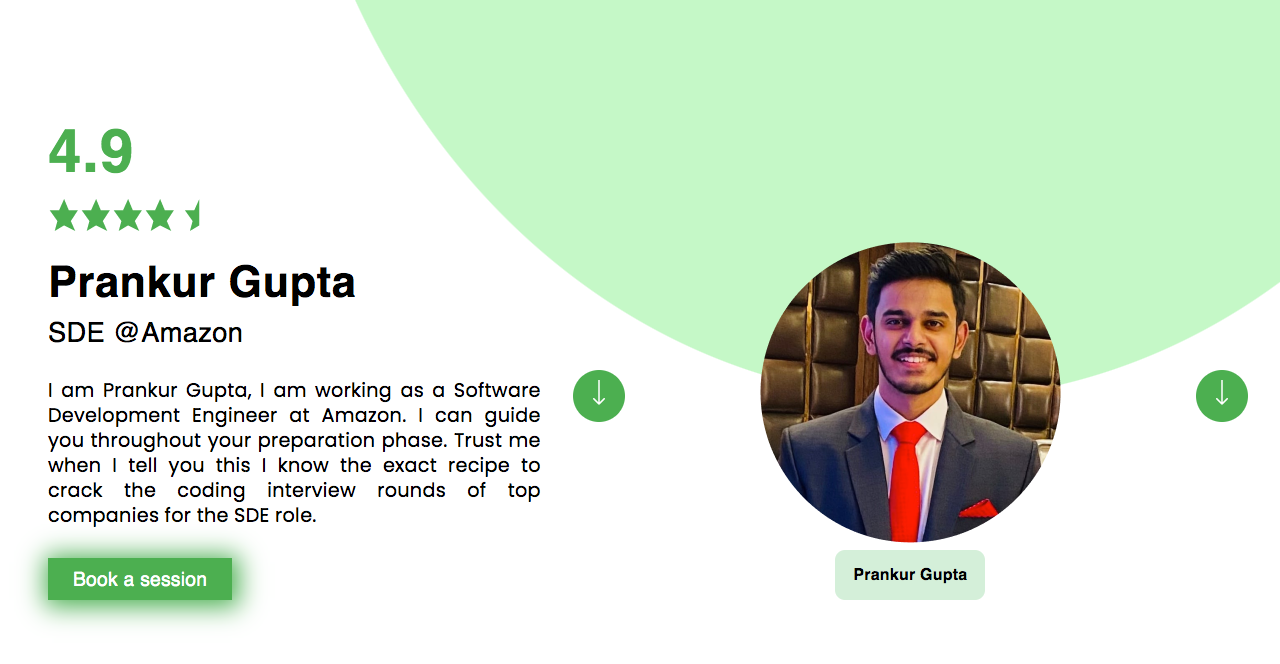
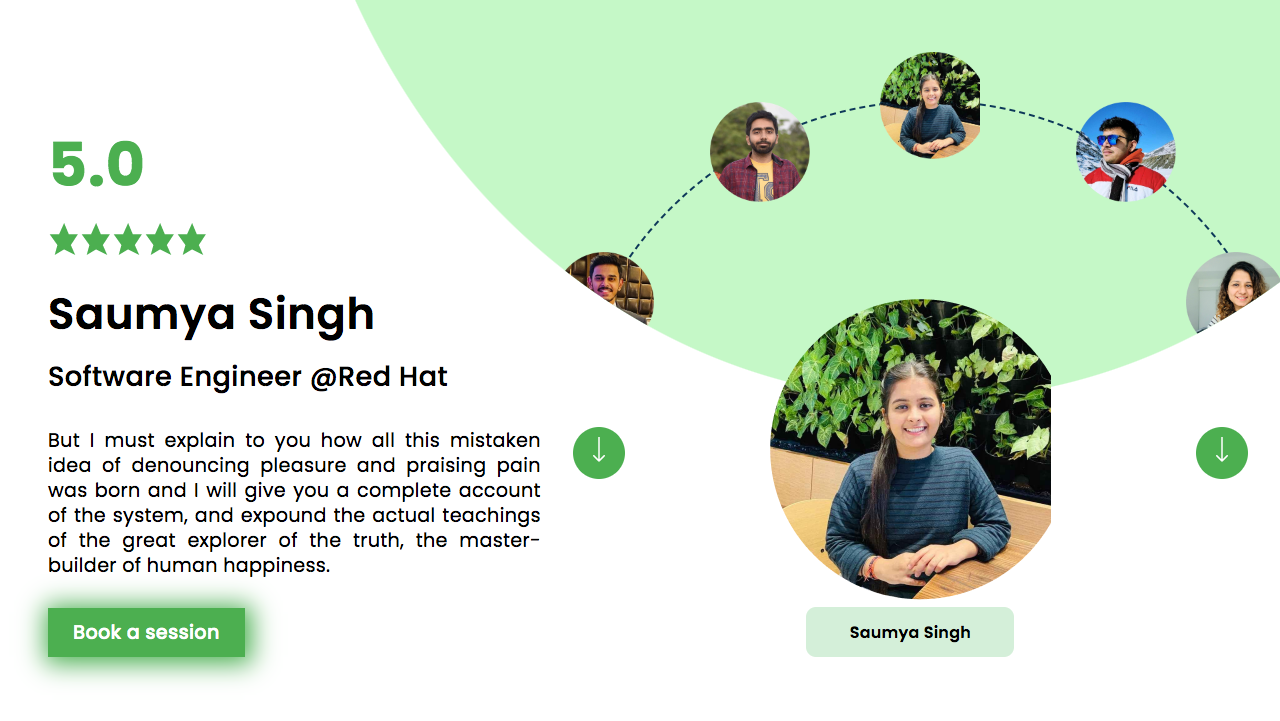
fix:readme img

diff --git a/src/components/Main.jsx b/src/components/Main.jsx
@@ -1,5 +1,4 @@
 import React, { useEffect, useState } from 'react'
-import styled from 'styled-components'
 import { details } from '../data'
 import Stars from './Stars'
 import { ReactComponent as ArrowIcon } from '../assets/arrow.svg'
@@ -27,7 +26,11 @@ const Main = () => {
           <div className='smal-img-wrapper'>
             {sliders.map((sl, ind) => {
               return (
-                <div key={ind} className={`pag-img ${ind === index ? 'active-pag' : ''}`}>
+                <div
+                  key={ind}
+                  className={`pag-img ${ind === index ? 'active-pag' : ''}`}
+                  style={{order:3}}
+                >
                   <img src={sl.img} alt={sl.name} />
                 </div>
               )

diff --git a/src/App.css b/src/App.css
@@ -133,12 +133,10 @@
   justify-content: space-between;
 }
 
-.img-wrapper {
-}
-
 .img {
   width: 100%;
   transition: var(--transition);
+  transform: translateY(100px);
 }
 
 .slider .img {
@@ -216,7 +214,6 @@
 }
 
 .pag-img{
-  display: inline-block;
   position: absolute;
   max-width: 100px;
 }
@@ -253,7 +250,8 @@
 
 
 .active-pag{
-  order: 3
+  order: 3;
+  display: initial;
 }
 
 @media  screen and (max-width:700px) {

diff --git a/public/index.html b/public/index.html
@@ -24,7 +24,7 @@
       work correctly both with client-side routing and a non-root public URL.
       Learn how to configure a non-root public URL by running `npm run build`.
     -->
-    <title>React App</title>
+    <title>Mentro Test</title>
   </head>
   <body>
     <noscript>You need to enable JavaScript to run this app.</noscript>
